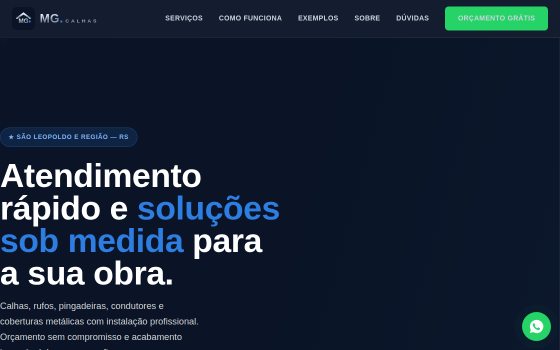
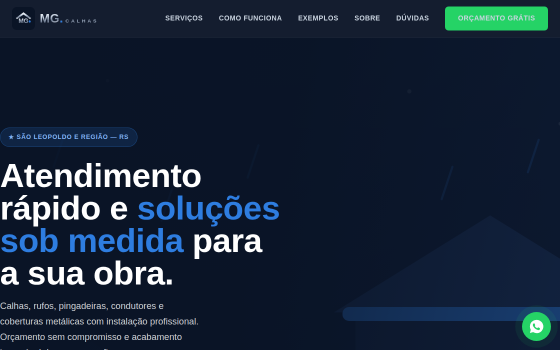
Adiciona ilustrações SVG ao site da MG Calhas
Substitui as imagens aleatórias do loremflickr por ilustrações próprias em
SVG (hero, galeria de exemplos e seção Sobre) nas cores da marca. As cenas
representam calhas, condutores, coberturas metálicas, rufos, calhas
industriais e escoamento — carregam instantaneamente e não dependem de
serviços externos. Atualiza a miniatura do portfólio.

Claude-Session: https://claude.ai/code/session_01DUHP13Vpq5KYH47VnGNdVV

Changed region(s): [[0.6071, 0.8571, 1.0, 0.9143]]

diff --git a/mg-calhas.html b/mg-calhas.html
@@ -61,6 +61,9 @@ header{position:sticky;top:0;z-index:50;background:rgba(10,20,38,.96);backdrop-f
 .hero{position:relative;color:#fff;overflow:hidden;background:var(--navy)}
 .hero-bg{position:absolute;inset:0;z-index:0}
 .hero-bg img{width:100%;height:100%;object-fit:cover;opacity:.34}
+.scene{position:absolute;inset:0;width:100%;height:100%;display:block}
+.hero-bg .scene{opacity:.9}
+.gal a .scene,.about-img .scene{z-index:0}
 .hero-bg::after{content:"";position:absolute;inset:0;background:linear-gradient(105deg,rgba(10,20,38,.97) 0%,rgba(10,20,38,.85) 45%,rgba(14,27,51,.55) 100%)}
 .hero-inner{position:relative;z-index:1;padding:96px 0 88px}
 .kick{display:inline-flex;align-items:center;gap:.5rem;background:rgba(46,125,224,.16);color:#7FB2F5;font-weight:700;font-size:.78rem;padding:.5rem 1rem;border-radius:40px;text-transform:uppercase;letter-spacing:.07em;margin-bottom:1.5rem;border:1px solid rgba(46,125,224,.34)}
@@ -249,7 +252,39 @@ footer{background:#070E1C;color:#64748B;padding:54px 0 26px}
 
 <!-- ── HERO ── -->
 <section class="hero" id="topo">
-  <div class="hero-bg"><img class="ph-img" alt="" loading="eager" src="https://loremflickr.com/1600/900/roof,house,modern?lock=12"></div>
+  <div class="hero-bg">
+    <svg class="scene" viewBox="0 0 800 450" preserveAspectRatio="xMidYMid slice" xmlns="http://www.w3.org/2000/svg" aria-hidden="true">
+      <defs>
+        <linearGradient id="hsky" x1="0" y1="0" x2="0" y2="1"><stop offset="0" stop-color="#0E1B33"/><stop offset="1" stop-color="#0A1426"/></linearGradient>
+        <linearGradient id="hmetal" x1="0" y1="0" x2="0" y2="1"><stop offset="0" stop-color="#C9D4E3"/><stop offset="1" stop-color="#6E7C92"/></linearGradient>
+      </defs>
+      <rect width="800" height="450" fill="url(#hsky)"/>
+      <!-- estrelas/pontos -->
+      <g fill="#fff" opacity=".18"><circle cx="120" cy="60" r="2"/><circle cx="240" cy="40" r="1.6"/><circle cx="520" cy="50" r="2"/><circle cx="660" cy="80" r="1.6"/><circle cx="700" cy="40" r="2.2"/></g>
+      <!-- casas ao fundo -->
+      <g opacity=".5" fill="#16294A"><rect x="40" y="300" width="120" height="120"/><path d="M30 300 100 250 170 300Z"/><rect x="180" y="320" width="90" height="100"/><path d="M172 320 225 282 278 320Z"/></g>
+      <!-- casa principal à direita -->
+      <g>
+        <rect x="470" y="250" width="250" height="170" fill="#13233F"/>
+        <path d="M450 255 595 165 740 255Z" fill="#1B3157"/>
+        <!-- calha em destaque -->
+        <rect x="458" y="250" width="284" height="13" rx="6" fill="#2E7DE0"/>
+        <!-- condutor -->
+        <rect x="724" y="263" width="11" height="150" fill="url(#hmetal)"/>
+        <!-- janelas iluminadas -->
+        <rect x="510" y="300" width="46" height="50" rx="3" fill="#F8C66B" opacity=".85"/>
+        <rect x="610" y="300" width="46" height="50" rx="3" fill="#F8C66B" opacity=".55"/>
+        <rect x="660" y="370" width="40" height="50" rx="3" fill="#0E1B33"/>
+      </g>
+      <!-- chuva -->
+      <g stroke="#2E7DE0" stroke-width="2" stroke-linecap="round" opacity=".35">
+        <line x1="120" y1="120" x2="110" y2="150"/><line x1="200" y1="90" x2="190" y2="120"/>
+        <line x1="300" y1="140" x2="290" y2="170"/><line x1="380" y1="100" x2="370" y2="130"/>
+        <line x1="560" y1="120" x2="550" y2="150"/><line x1="640" y1="95" x2="630" y2="125"/>
+      </g>
+      <rect x="0" y="416" width="800" height="34" fill="#0A1426"/>
+    </svg>
+  </div>
   <div class="wrap hero-inner">
     <span class="kick">★ São Leopoldo e região — RS</span>
     <h1 class="hf">Atendimento rápido e <span class="hl">soluções sob medida</span> para a sua obra.</h1>
@@ -398,12 +433,90 @@ footer{background:#070E1C;color:#64748B;padding:54px 0 26px}
       <p>Imagens ilustrativas de calhas, rufos, coberturas e acabamentos como os que executamos no dia a dia.</p>
     </div>
     <div class="gal">
-      <a href="#contato"><img class="ph-img" loading="lazy" alt="Calha instalada em telhado residencial" src="https://loremflickr.com/600/450/gutter,roof?lock=21"><span class="cap">Calha residencial</span></a>
-      <a href="#contato"><img class="ph-img" loading="lazy" alt="Condutor de água da chuva na parede" src="https://loremflickr.com/600/450/downspout,rain?lock=33"><span class="cap">Condutor de água</span></a>
-      <a href="#contato"><img class="ph-img" loading="lazy" alt="Cobertura metálica" src="https://loremflickr.com/600/450/metal,roof?lock=44"><span class="cap">Cobertura metálica</span></a>
-      <a href="#contato"><img class="ph-img" loading="lazy" alt="Rufo de telhado" src="https://loremflickr.com/600/450/roof,flashing,metal?lock=51"><span class="cap">Rufos e vedação</span></a>
-      <a href="#contato"><img class="ph-img" loading="lazy" alt="Calha de galpão industrial" src="https://loremflickr.com/600/450/warehouse,roof?lock=62"><span class="cap">Calha industrial</span></a>
-      <a href="#contato"><img class="ph-img" loading="lazy" alt="Chuva escoando pela calha" src="https://loremflickr.com/600/450/rain,gutter,water?lock=73"><span class="cap">Escoamento eficiente</span></a>
+      <a href="#contato" aria-label="Calha residencial">
+        <svg class="scene" viewBox="0 0 400 300" preserveAspectRatio="xMidYMid slice" xmlns="http://www.w3.org/2000/svg" aria-hidden="true">
+          <defs><linearGradient id="g1a" x1="0" y1="0" x2="0" y2="1"><stop offset="0" stop-color="#bfdbfe"/><stop offset="1" stop-color="#eff6ff"/></linearGradient><linearGradient id="g1m" x1="0" y1="0" x2="0" y2="1"><stop offset="0" stop-color="#E6ECF5"/><stop offset="1" stop-color="#9AA8BC"/></linearGradient></defs>
+          <rect width="400" height="300" fill="url(#g1a)"/>
+          <circle cx="330" cy="58" r="30" fill="#fde68a" opacity=".85"/>
+          <rect x="78" y="168" width="210" height="120" fill="#fff"/>
+          <path d="M52 174 183 86 314 174Z" fill="#0A1426"/>
+          <rect x="62" y="170" width="256" height="14" rx="7" fill="#2E7DE0"/>
+          <rect x="306" y="184" width="11" height="100" fill="url(#g1m)"/>
+          <rect x="108" y="200" width="44" height="44" rx="3" fill="#bfdbfe"/>
+          <rect x="210" y="214" width="40" height="74" rx="2" fill="#1E293B"/>
+          <rect x="0" y="284" width="400" height="16" fill="#cbd5e1"/>
+        </svg>
+        <span class="cap">Calha residencial</span>
+      </a>
+      <a href="#contato" aria-label="Condutor de água">
+        <svg class="scene" viewBox="0 0 400 300" preserveAspectRatio="xMidYMid slice" xmlns="http://www.w3.org/2000/svg" aria-hidden="true">
+          <defs><linearGradient id="g2w" x1="0" y1="0" x2="1" y2="0"><stop offset="0" stop-color="#eef2f8"/><stop offset="1" stop-color="#dbe3ee"/></linearGradient><linearGradient id="g2m" x1="0" y1="0" x2="1" y2="0"><stop offset="0" stop-color="#fff"/><stop offset=".5" stop-color="#C9D4E3"/><stop offset="1" stop-color="#6E7C92"/></linearGradient></defs>
+          <rect width="400" height="300" fill="url(#g2w)"/>
+          <g stroke="#cdd8e6" stroke-width="2"><line x1="0" y1="70" x2="400" y2="70"/><line x1="0" y1="150" x2="400" y2="150"/><line x1="0" y1="230" x2="400" y2="230"/></g>
+          <rect x="60" y="40" width="280" height="16" rx="8" fill="#2E7DE0"/>
+          <path d="M196 56 q24 0 24 26 l0 4" fill="none" stroke="#2E7DE0" stroke-width="16" stroke-linecap="round"/>
+          <rect x="190" y="84" width="20" height="180" rx="4" fill="url(#g2m)"/>
+          <rect x="186" y="120" width="28" height="9" rx="3" fill="#9AA8BC"/>
+          <rect x="186" y="200" width="28" height="9" rx="3" fill="#9AA8BC"/>
+          <g fill="#2E7DE0" opacity=".55"><circle cx="200" cy="276" r="5"/><circle cx="180" cy="266" r="3"/><circle cx="222" cy="270" r="3"/></g>
+          <rect x="0" y="284" width="400" height="16" fill="#cbd5e1"/>
+        </svg>
+        <span class="cap">Condutor de água</span>
+      </a>
+      <a href="#contato" aria-label="Cobertura metálica">
+        <svg class="scene" viewBox="0 0 400 300" preserveAspectRatio="xMidYMid slice" xmlns="http://www.w3.org/2000/svg" aria-hidden="true">
+          <defs><linearGradient id="g3a" x1="0" y1="0" x2="0" y2="1"><stop offset="0" stop-color="#cfe0f7"/><stop offset="1" stop-color="#eef4fc"/></linearGradient><linearGradient id="g3r" x1="0" y1="0" x2="0" y2="1"><stop offset="0" stop-color="#E6ECF5"/><stop offset="1" stop-color="#7D8798"/></linearGradient></defs>
+          <rect width="400" height="300" fill="url(#g3a)"/>
+          <path d="M40 150 200 86 360 150 360 176 200 112 40 176Z" fill="url(#g3r)"/>
+          <g stroke="#8893a6" stroke-width="2" opacity=".7"><line x1="78" y1="150" x2="200" y2="101"/><line x1="120" y1="150" x2="200" y2="118"/><line x1="200" y1="101" x2="322" y2="150"/><line x1="200" y1="118" x2="280" y2="150"/></g>
+          <rect x="64" y="176" width="14" height="110" fill="#6E7C92"/>
+          <rect x="322" y="176" width="14" height="110" fill="#6E7C92"/>
+          <rect x="40" y="168" width="320" height="12" rx="6" fill="#2E7DE0"/>
+          <rect x="0" y="286" width="400" height="14" fill="#cbd5e1"/>
+        </svg>
+        <span class="cap">Cobertura metálica</span>
+      </a>
+      <a href="#contato" aria-label="Rufos e vedação">
+        <svg class="scene" viewBox="0 0 400 300" preserveAspectRatio="xMidYMid slice" xmlns="http://www.w3.org/2000/svg" aria-hidden="true">
+          <defs><linearGradient id="g4a" x1="0" y1="0" x2="0" y2="1"><stop offset="0" stop-color="#bfdbfe"/><stop offset="1" stop-color="#eff6ff"/></linearGradient></defs>
+          <rect width="400" height="300" fill="url(#g4a)"/>
+          <rect x="250" y="0" width="150" height="300" fill="#e2e8f2"/>
+          <path d="M0 250 250 250 250 120Z" fill="#0A1426"/>
+          <g stroke="#28406a" stroke-width="2" opacity=".5"><line x1="60" y1="250" x2="170" y2="192"/><line x1="120" y1="250" x2="210" y2="203"/></g>
+          <path d="M250 120 250 250 232 250 232 142Z" fill="#2E7DE0"/>
+          <path d="M250 120 268 132 268 250 250 250Z" fill="#1F66C4"/>
+          <rect x="285" y="60" width="60" height="80" rx="3" fill="#bfdbfe"/>
+          <rect x="0" y="250" width="400" height="50" fill="#cbd5e1"/>
+        </svg>
+        <span class="cap">Rufos e vedação</span>
+      </a>
+      <a href="#contato" aria-label="Calha industrial">
+        <svg class="scene" viewBox="0 0 400 300" preserveAspectRatio="xMidYMid slice" xmlns="http://www.w3.org/2000/svg" aria-hidden="true">
+          <defs><linearGradient id="g5a" x1="0" y1="0" x2="0" y2="1"><stop offset="0" stop-color="#cdd9ec"/><stop offset="1" stop-color="#eef2f8"/></linearGradient><linearGradient id="g5m" x1="0" y1="0" x2="0" y2="1"><stop offset="0" stop-color="#E6ECF5"/><stop offset="1" stop-color="#8893a6"/></linearGradient></defs>
+          <rect width="400" height="300" fill="url(#g5a)"/>
+          <rect x="30" y="150" width="340" height="138" fill="#fff"/>
+          <path d="M30 150 110 110 190 150 270 110 350 150 370 150 370 160 30 160Z" fill="url(#g5m)"/>
+          <rect x="24" y="156" width="352" height="12" rx="6" fill="#2E7DE0"/>
+          <rect x="60" y="168" width="10" height="120" fill="#9AA8BC"/>
+          <rect x="330" y="168" width="10" height="120" fill="#9AA8BC"/>
+          <g fill="#dbe3ee"><rect x="90" y="200" width="46" height="60"/><rect x="170" y="200" width="46" height="60"/><rect x="250" y="200" width="46" height="60"/></g>
+          <rect x="0" y="286" width="400" height="14" fill="#c2ccdb"/>
+        </svg>
+        <span class="cap">Calha industrial</span>
+      </a>
+      <a href="#contato" aria-label="Escoamento eficiente">
+        <svg class="scene" viewBox="0 0 400 300" preserveAspectRatio="xMidYMid slice" xmlns="http://www.w3.org/2000/svg" aria-hidden="true">
+          <defs><linearGradient id="g6a" x1="0" y1="0" x2="0" y2="1"><stop offset="0" stop-color="#9db8df"/><stop offset="1" stop-color="#dde8f6"/></linearGradient><linearGradient id="g6m" x1="0" y1="0" x2="0" y2="1"><stop offset="0" stop-color="#C9D4E3"/><stop offset="1" stop-color="#6E7C92"/></linearGradient></defs>
+          <rect width="400" height="300" fill="url(#g6a)"/>
+          <g fill="#eef4fc"><ellipse cx="120" cy="70" rx="56" ry="26"/><ellipse cx="170" cy="60" rx="40" ry="22"/><ellipse cx="280" cy="80" rx="50" ry="24"/></g>
+          <g stroke="#2E7DE0" stroke-width="3" stroke-linecap="round" opacity=".55"><line x1="110" y1="110" x2="98" y2="150"/><line x1="160" y1="120" x2="148" y2="160"/><line x1="210" y1="110" x2="198" y2="150"/><line x1="260" y1="120" x2="248" y2="160"/><line x1="300" y1="110" x2="288" y2="150"/></g>
+          <path d="M40 200 360 200 360 214 54 214 54 240 40 240Z" fill="url(#g6m)"/>
+          <path d="M54 214 360 214 360 226 60 226Z" fill="#2E7DE0" opacity=".9"/>
+          <path d="M300 250 l16 0 -8 14Z" fill="#1F66C4"/>
+          <rect x="0" y="280" width="400" height="20" fill="#c2ccdb"/>
+        </svg>
+        <span class="cap">Escoamento eficiente</span>
+      </a>
     </div>
   </div>
 </section>
@@ -412,7 +525,34 @@ footer{background:#070E1C;color:#64748B;padding:54px 0 26px}
 <section id="sobre" class="about">
   <div class="wrap about-grid">
     <div class="about-img reveal">
-      <img class="ph-img" loading="lazy" alt="Profissional da MG Calhas trabalhando em telhado" src="https://loremflickr.com/700/560/roofer,worker,roof?lock=84">
+      <svg class="scene" viewBox="0 0 500 400" preserveAspectRatio="xMidYMid slice" xmlns="http://www.w3.org/2000/svg" role="img" aria-label="Casa equipada com calhas pela MG Calhas">
+        <defs>
+          <linearGradient id="absky" x1="0" y1="0" x2="0" y2="1"><stop offset="0" stop-color="#9db8df"/><stop offset="1" stop-color="#dbe7f6"/></linearGradient>
+          <linearGradient id="abmetal" x1="0" y1="0" x2="0" y2="1"><stop offset="0" stop-color="#E6ECF5"/><stop offset="1" stop-color="#7D8798"/></linearGradient>
+        </defs>
+        <rect width="500" height="400" fill="url(#absky)"/>
+        <circle cx="420" cy="70" r="36" fill="#fde68a" opacity=".9"/>
+        <g fill="#eef4fc" opacity=".9"><ellipse cx="110" cy="80" rx="50" ry="22"/><ellipse cx="150" cy="70" rx="34" ry="18"/></g>
+        <!-- casa -->
+        <rect x="120" y="200" width="240" height="160" fill="#fff"/>
+        <rect x="360" y="230" width="70" height="130" fill="#eef2f8"/>
+        <!-- telhado -->
+        <path d="M96 206 240 110 384 206Z" fill="#0A1426"/>
+        <path d="M360 230 240 158 384 206Z" fill="#13233F"/>
+        <!-- calha principal + condutor -->
+        <rect x="104" y="202" width="290" height="15" rx="7" fill="#2E7DE0"/>
+        <rect x="382" y="217" width="12" height="140" fill="url(#abmetal)"/>
+        <rect x="378" y="300" width="20" height="9" rx="3" fill="#9AA8BC"/>
+        <!-- janelas e porta -->
+        <rect x="150" y="240" width="50" height="50" rx="3" fill="#bfdbfe"/>
+        <rect x="240" y="240" width="50" height="50" rx="3" fill="#bfdbfe"/>
+        <rect x="190" y="300" width="48" height="60" rx="2" fill="#1E293B"/>
+        <!-- chuva -->
+        <g stroke="#2E7DE0" stroke-width="2.5" stroke-linecap="round" opacity=".4"><line x1="150" y1="140" x2="140" y2="170"/><line x1="210" y1="150" x2="200" y2="180"/><line x1="280" y1="140" x2="270" y2="170"/></g>
+        <!-- arbusto -->
+        <circle cx="100" cy="350" r="22" fill="#5b8c5a"/><circle cx="124" cy="356" r="16" fill="#6ba368"/>
+        <rect x="0" y="358" width="500" height="42" fill="#c2ccdb"/>
+      </svg>
       <span class="pill">📍 São Leopoldo · RS</span>
     </div>
     <div class="reveal">
